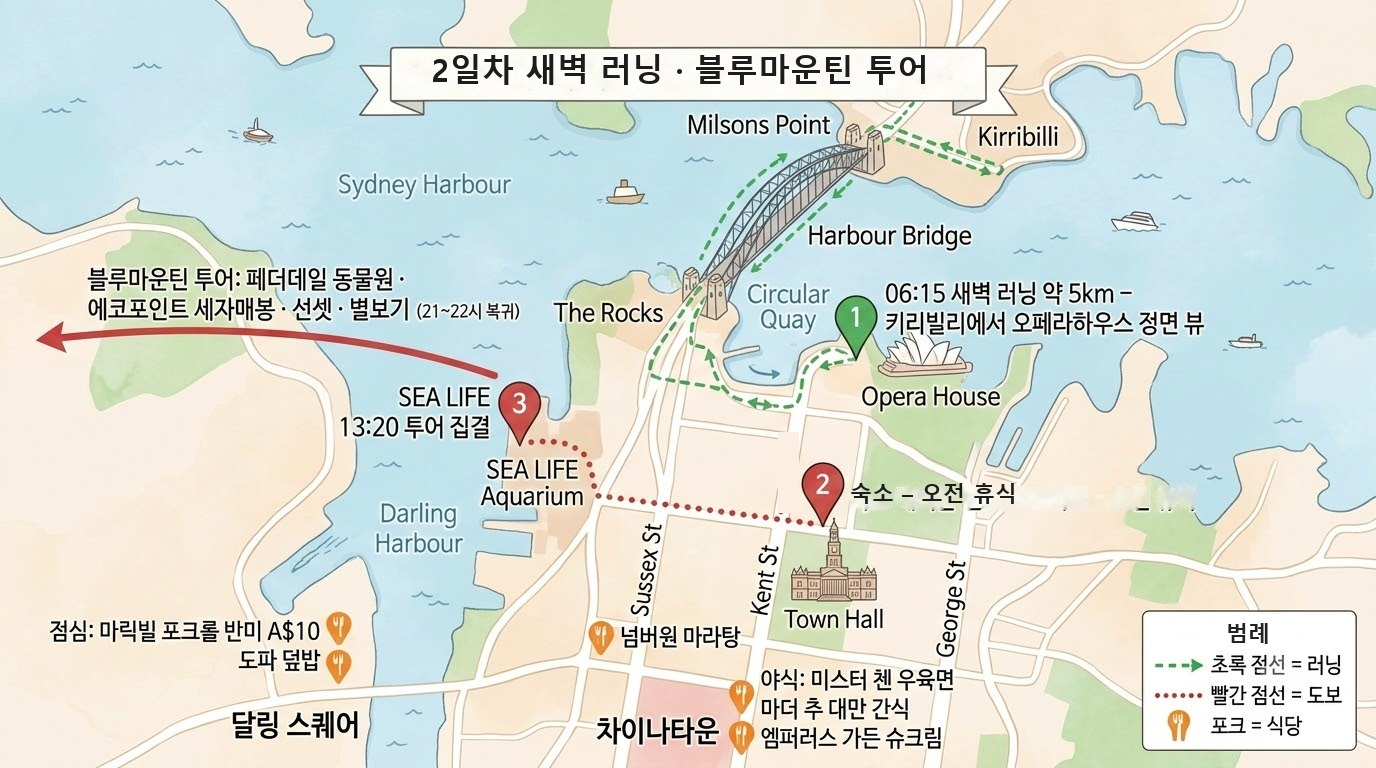
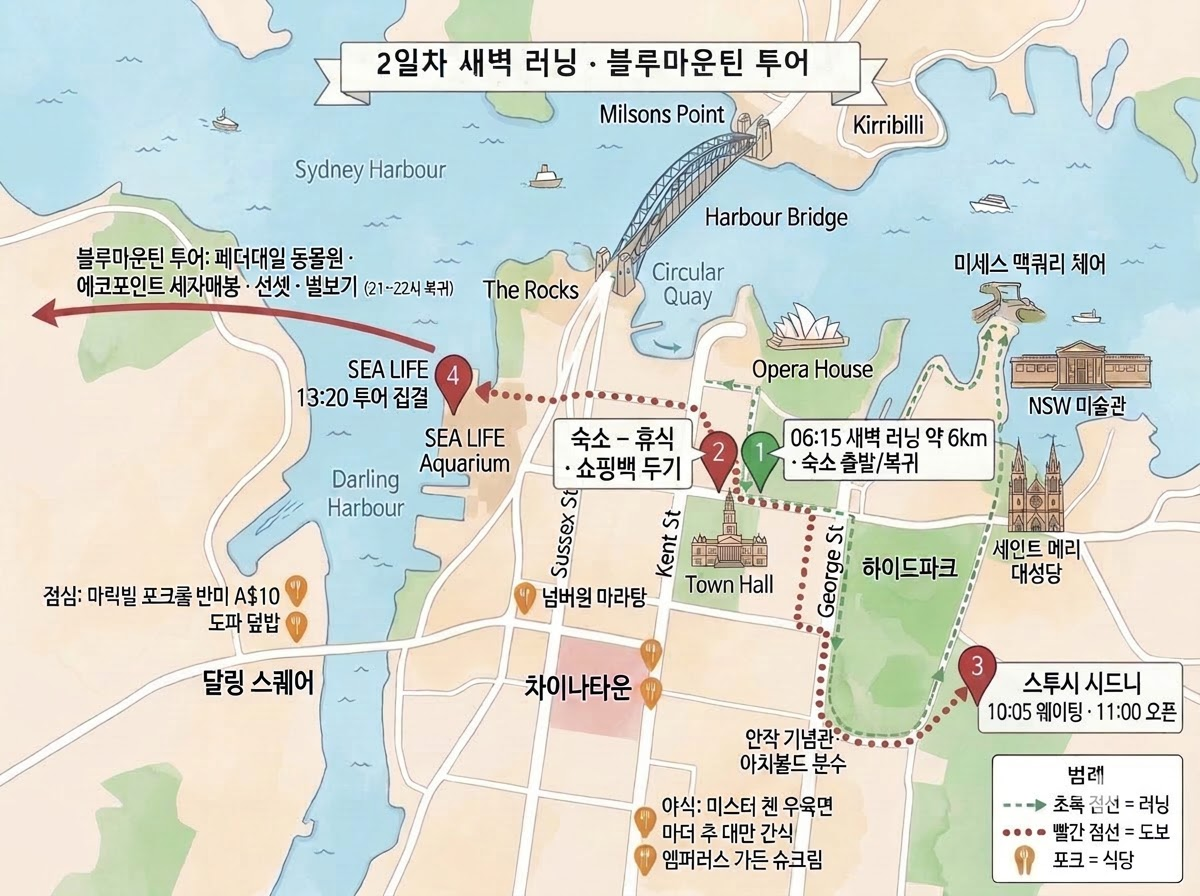
Day 2: Hyde Park–Mrs Macquarie's–Opera House run (Google Maps course link), Stussy Sydney before the tour; map redrawn in Google Flow

diff --git a/src/data.js b/src/data.js
@@ -35,16 +35,18 @@ export const TEMPLATES = {
   bluemountains: {
     id: 'bluemountains',
     tag: '블루마운틴 투어',
-    title: '하버브리지 새벽 러닝, 블루마운틴 투어, 도착 후 야식',
-    summary: '투어 집결이 13:20이라 오전은 러닝 1시간만 하고 나머지는 쉬면서 긴 투어에 대비합니다. 집결 시각은 예약한 투어에 맞춰 고치세요.',
-    map: '/maps/day2.jpg',
-    mapAlt: '블루마운틴 투어일 동선: 새벽 러닝(서큘러키·하버브리지·키리빌리) → 숙소 → SEA LIFE 투어 집결',
+    title: '새벽 러닝, 스투시 시드니, 블루마운틴 투어, 도착 후 야식',
+    summary: '숙소에서 바로 출발하는 러닝 1시간 뒤 쉬었다가, 스투시 시드니(11:00 오픈)에서 웨이팅 후 쇼핑하고 숙소에 짐을 두고 13:20 투어 집결지로 갑니다. 집결 시각은 예약한 투어에 맞춰 고치세요.',
+    map: '/maps/day2.jpg?v=2',
+    mapAlt: '2일차 동선: 새벽 러닝(숙소 → 하이드파크 → 세인트 메리 대성당 → 미술관 → 미세스 맥쿼리 체어 → 오페라하우스 → 숙소) → 스투시 시드니(달링허스트) → 숙소 → SEA LIFE 투어 집결',
     items: [
       ['06:00', '기상', '—', ''],
-      ['06:15–07:30', '새벽 러닝 약 5km: 서큘러키 → 더 록스 → 하버브리지 보행로 → 키리빌리 → 복귀', '서큘러키까지 기차 약 10분', '키리빌리 물가에서 오페라하우스 정면 뷰. 다리 입구는 더 록스 쪽 계단', 'Sydney Harbour Bridge pedestrian'],
-      ['07:30–09:00', '숙소 복귀, 샤워·아침', '기차 + 도보', ''],
-      ['09:00–11:30', '휴식·자유 시간', '—', '투어가 밤늦게 끝나니 쉬어 두기. 겹옷·보조배터리'],
-      ['11:45–13:00', '달링 스퀘어 점심 (투어 집결지 근처)', '도보 10–15분', '집결지까지 도보 5분'],
+      ['06:15–07:30', '새벽 러닝 약 6km: 숙소 → 안작 기념관·아치볼드 분수(하이드파크) → 세인트 메리 대성당 → NSW 주립 미술관 → 미세스 맥쿼리 체어 → 오페라하우스 → 숙소', '숙소에서 바로 출발(러닝)', '미세스 맥쿼리 체어에서 오페라하우스·하버브리지가 한 화면. 아래 링크는 구글 지도 도보 경로', 'https://maps.app.goo.gl/LtW9MxnYGxuExkCs5'],
+      ['07:30–09:45', '숙소 복귀, 샤워·아침, 휴식', '—', '투어가 밤늦게 끝나니 쉬어 두기. 겹옷·보조배터리 챙겨 두기'],
+      ['10:05–11:00', '스투시 시드니 오픈 전 웨이팅 (18 Oxford Square, 달링허스트)', '도보 약 20분 (옥스퍼드 St 방향)', '금요일 11:00 오픈(월–금 11–18시, 주말 12–17시). 신상 발매일이면 더 일찍 줄 서기', 'Stussy Sydney 18 Oxford Square Darlinghurst'],
+      ['11:00–11:45', '스투시 시드니 쇼핑', '—', '입장 인원 제한이 있을 수 있음. 한 매장 A$300 이상이면 Tax Invoice 받기(TRS 환급)'],
+      ['11:45–12:10', '숙소 복귀, 쇼핑백 두기', '도보 약 20분', ''],
+      ['12:15–13:05', '달링 스퀘어 점심 (투어 집결지 근처)', '도보 10–15분', '집결지까지 도보 5분. 웨이팅이 길어지면 집결지 근처에서 간단히'],
       ['13:20', '블루마운틴 투어 집결: 1-5 Wheat Road(SEA LIFE 오른쪽 도로변), 13:30 정시 출발', '도보', '페더데일(동물원 옵션) → 킹스 테이블랜드 → 에코포인트·세자매봉 → 선셋 → 별보기. 저녁 식사비 별도', '1-5 Wheat Road Sydney'],
       ['21:00–22:00', '시내 도착 (하차: 389 Pitt St, Rydges 호텔 앞)', '—', '숙소까지 도보 약 5분. 밤 산은 추우니 겹옷 필수'],
     ],

diff --git a/src/components/Itinerary.jsx b/src/components/Itinerary.jsx
@@ -29,8 +29,8 @@ function Timeline({ items, prefix, trip }) {
               {move && move !== '—' && <p className="tl-move">🚶 {move}</p>}
               {memo && memo !== '—' && <p className="tl-memo">{memo}</p>}
               {place && (
-                <a className="tl-link" href={mapLink(place)} target="_blank" rel="noreferrer">
-                  📍 구글 지도
+                <a className="tl-link" href={/^https?:/.test(place) ? place : mapLink(place)} target="_blank" rel="noreferrer">
+                  {/^https?:/.test(place) ? '🗺 구글 지도에서 코스 보기' : '📍 구글 지도'}
                 </a>
               )}
             </div>
